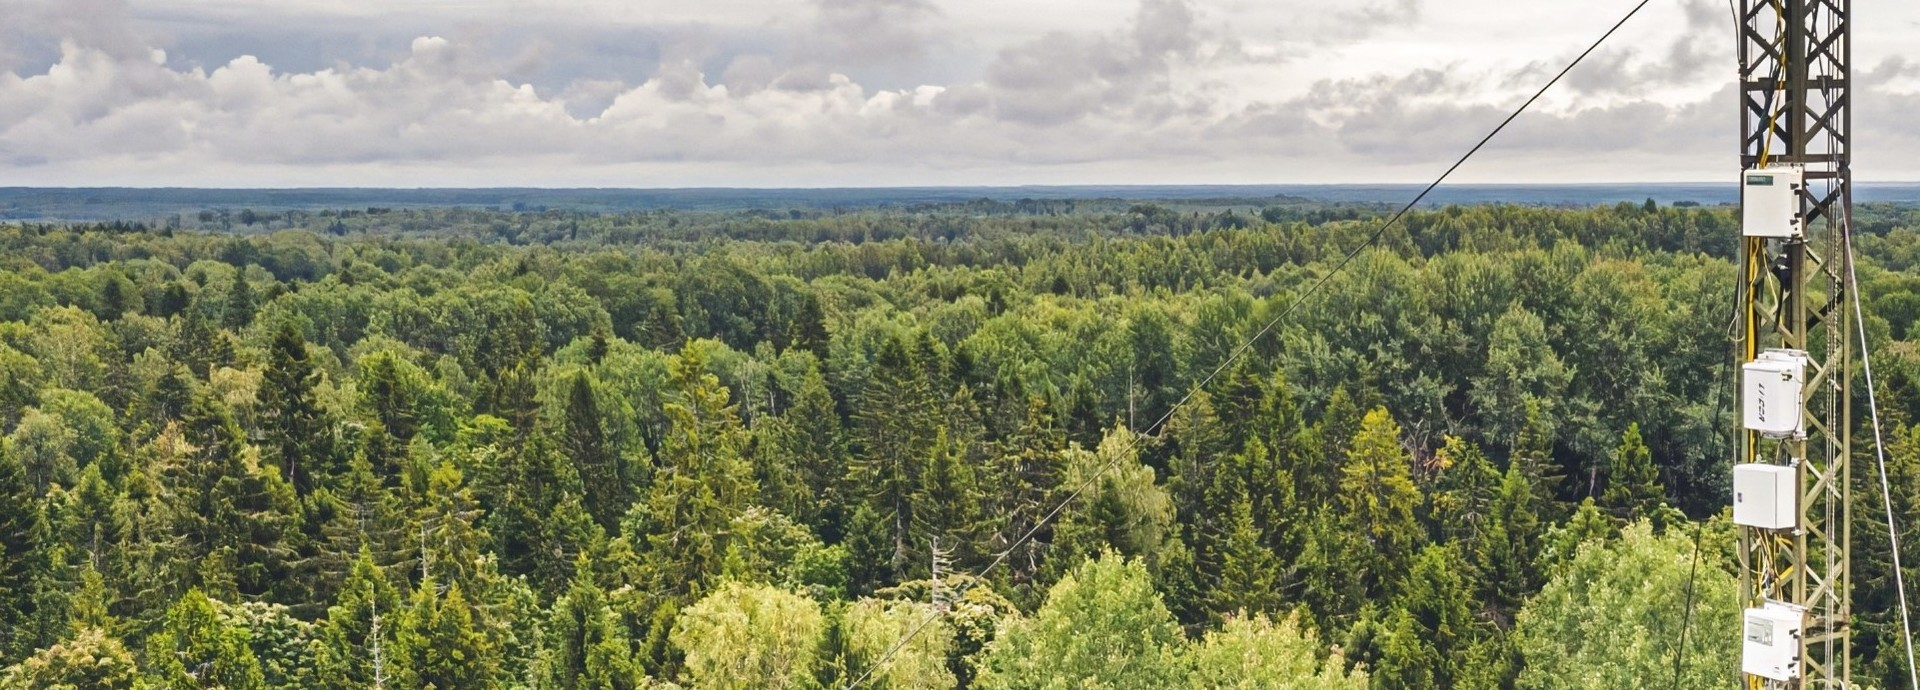
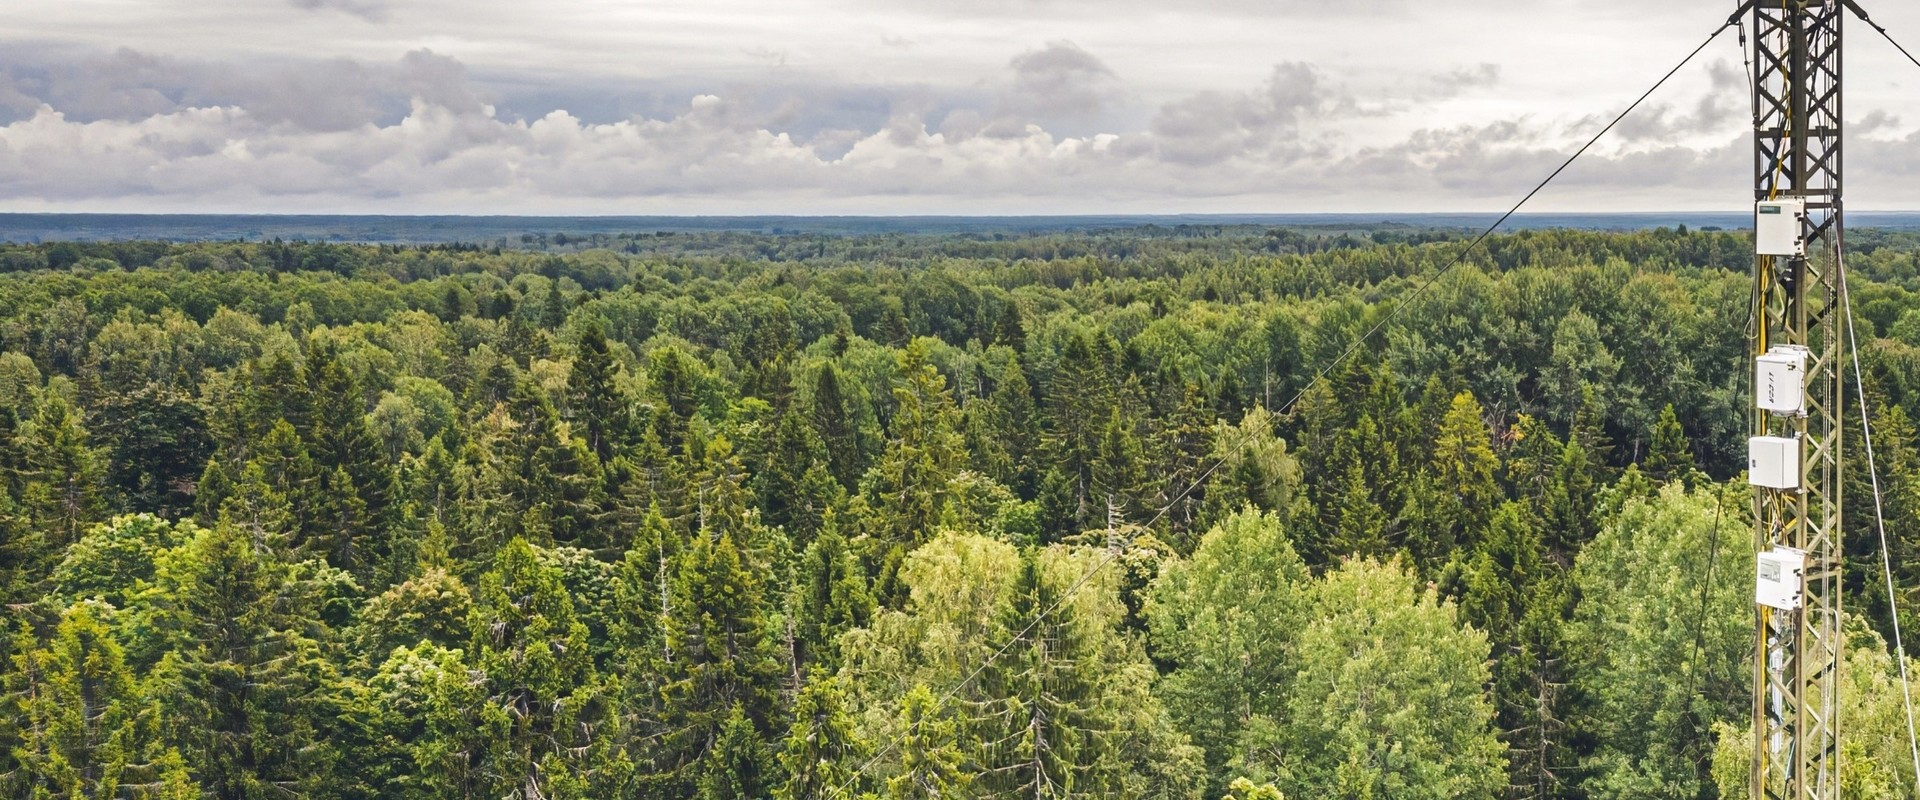
fix: background fixed scroll effect restored

diff --git a/assets/main.css b/assets/main.css
@@ -18110,17 +18110,15 @@ main {
 
 .hero-image {
     /* background: url("images/background_low_res.jpg") center/cover no-repeat */
-    background: url("images/background.jpg") center/cover no-repeat;
+    background: url("images/background.jpg") no-repeat fixed;
     position: relative;
     width: 100%;
-
     /* height: 60vh */
     min-height: 60vh;
     box-sizing: border-box;
     margin-top: 0;
     padding: clamp(1rem, 6vh, 10rem) 1rem;
-    background-position-x: right 12%;
-    background-position-y: bottom;
+    background-position-x: 91%;
 }
 
 .hero-text-container {
